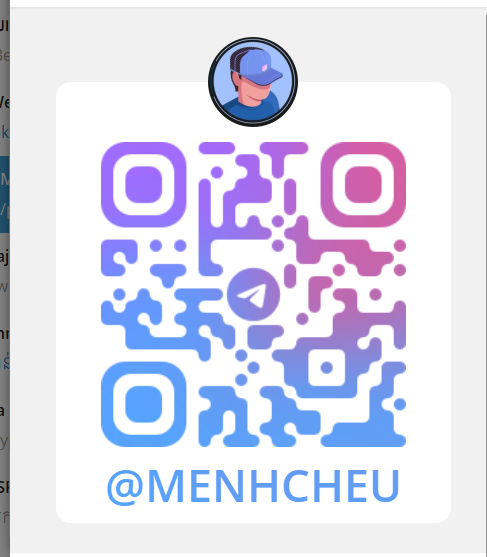
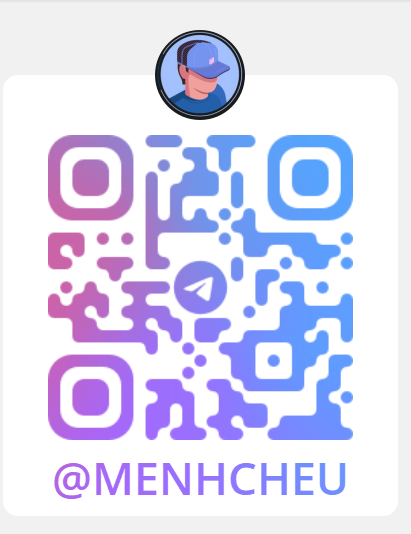
Update profile picture to profile1.jpg and adjust image dimensions

diff --git a/resources/views/portfolio/index.blade.php b/resources/views/portfolio/index.blade.php
@@ -6,7 +6,7 @@
     <div class="max-w-7xl mx-auto px-4 sm:px-6 lg:px-8 relative z-10 text-center">
         <!-- Profile Avatar Badge -->
         <div class="inline-flex items-center gap-3 px-4 py-2 rounded-full bg-white dark:bg-slate-800/80 border border-slate-200 dark:border-slate-700/80 mb-8 shadow-sm">
-            <img src="{{ asset('images/profile.jpg') }}" alt="Kongboo Tang" class="w-8 h-8 rounded-full object-cover ring-2 ring-indigo-500">
+            <img src="{{ asset('images/profile1.jpg') }}" alt="Kongboo Tang" class="w-8 h-8 rounded-full object-cover ring-2 ring-indigo-500">
             <span class="text-sm font-medium text-slate-700 dark:text-slate-200">Hi, I'm <strong class="text-indigo-600 dark:text-indigo-400 font-semibold">Kongboo Tang</strong> 👋</span>
         </div>
 
@@ -21,7 +21,9 @@
                 View My Work
             </a>
             <a href="{{ asset('TANG_KONGBOO_CV.pdf') }}" target="_blank" class="px-8 py-3 text-base font-medium rounded-full text-slate-900 bg-white border border-slate-200 hover:bg-slate-50 dark:text-white dark:bg-slate-800 dark:border-slate-700 dark:hover:bg-slate-700 transition-all flex items-center gap-2">
-                <svg class="w-5 h-5" fill="none" viewBox="0 0 24 24" stroke="currentColor"><path stroke-linecap="round" stroke-linejoin="round" stroke-width="2" d="M4 16v1a3 3 0 003 3h10a3 3 0 003-3v-1m-4-4l-4 4m0 0l-4-4m4 4V4" /></svg>
+                <svg class="w-5 h-5" fill="none" viewBox="0 0 24 24" stroke="currentColor">
+                    <path stroke-linecap="round" stroke-linejoin="round" stroke-width="2" d="M4 16v1a3 3 0 003 3h10a3 3 0 003-3v-1m-4-4l-4 4m0 0l-4-4m4 4V4" />
+                </svg>
                 Download CV
             </a>
             <a href="#contact" class="hidden md:inline-block px-8 py-3 text-base font-medium rounded-full text-slate-900 bg-white border border-slate-200 hover:bg-slate-50 dark:text-white dark:bg-slate-800 dark:border-slate-700 dark:hover:bg-slate-700 transition-all">
@@ -29,7 +31,7 @@
             </a>
         </div>
     </div>
-    
+
     <!-- Background Decoration -->
     <div class="absolute top-1/2 left-1/2 -translate-x-1/2 -translate-y-1/2 w-[800px] h-[800px] bg-indigo-500/10 dark:bg-indigo-500/5 rounded-full blur-3xl pointer-events-none"></div>
 </section>
@@ -42,14 +44,14 @@
             <div class="w-20 h-1 bg-indigo-500 mx-auto mt-4 rounded-full"></div>
             <p class="mt-4 text-slate-600 dark:text-slate-400">Get to know more about my background, expertise, and contact details.</p>
         </div>
-        
+
         <div class="max-w-5xl mx-auto bg-white dark:bg-[#0a0a0a] rounded-3xl p-8 md:p-12 shadow-sm border border-slate-200 dark:border-slate-800">
             <div class="flex flex-col md:flex-row gap-8 md:gap-12 items-center md:items-start">
                 <!-- Profile Image & Quick Bio Card -->
                 <div class="w-full md:w-1/3 flex flex-col items-center text-center">
                     <div class="relative group mb-6">
                         <div class="absolute -inset-1 bg-gradient-to-r from-indigo-500 to-cyan-400 rounded-full blur opacity-75 group-hover:opacity-100 transition duration-500"></div>
-                        <img src="{{ asset('images/profile.jpg') }}" alt="Kongboo Tang" class="relative w-40 h-40 rounded-full object-cover border-4 border-white dark:border-slate-900 shadow-xl">
+                        <img src="{{ asset('images/profile1.jpg') }}" alt="Kongboo Tang" class="relative w-48 h-48 sm:w-56 sm:h-56 rounded-full object-cover border-4 border-white dark:border-slate-900 shadow-xl">
                     </div>
                     <h3 class="text-2xl font-bold text-slate-900 dark:text-white">Kongboo Tang</h3>
                     <p class="text-indigo-600 dark:text-indigo-400 font-medium mt-1">Software Engineering Student</p>
@@ -70,7 +72,9 @@
                     <div class="grid grid-cols-1 sm:grid-cols-2 gap-4 pt-4 border-t border-slate-100 dark:border-slate-800">
                         <div class="flex items-center gap-3 p-3 rounded-xl bg-slate-50 dark:bg-slate-900/60 border border-slate-100 dark:border-slate-800">
                             <div class="w-9 h-9 rounded-lg bg-indigo-100 dark:bg-indigo-900/40 text-indigo-600 dark:text-indigo-400 flex items-center justify-center shrink-0">
-                                <svg class="w-5 h-5" fill="none" viewBox="0 0 24 24" stroke="currentColor"><path stroke-linecap="round" stroke-linejoin="round" stroke-width="2" d="M16 7a4 4 0 11-8 0 4 4 0 018 0zM12 14a7 7 0 00-7 7h14a7 7 0 00-7-7z" /></svg>
+                                <svg class="w-5 h-5" fill="none" viewBox="0 0 24 24" stroke="currentColor">
+                                    <path stroke-linecap="round" stroke-linejoin="round" stroke-width="2" d="M16 7a4 4 0 11-8 0 4 4 0 018 0zM12 14a7 7 0 00-7 7h14a7 7 0 00-7-7z" />
+                                </svg>
                             </div>
                             <div>
                                 <span class="text-xs text-slate-400 block font-medium">Full Name</span>
@@ -80,7 +84,10 @@
 
                         <div class="flex items-center gap-3 p-3 rounded-xl bg-slate-50 dark:bg-slate-900/60 border border-slate-100 dark:border-slate-800">
                             <div class="w-9 h-9 rounded-lg bg-indigo-100 dark:bg-indigo-900/40 text-indigo-600 dark:text-indigo-400 flex items-center justify-center shrink-0">
-                                <svg class="w-5 h-5" fill="none" viewBox="0 0 24 24" stroke="currentColor"><path stroke-linecap="round" stroke-linejoin="round" stroke-width="2" d="M12 14l9-5-9-5-9 5 9 5z" /><path stroke-linecap="round" stroke-linejoin="round" stroke-width="2" d="M12 14l6.16-3.422a12.083 12.083 0 01.665 6.479A11.952 11.952 0 0012 20.055a11.952 11.952 0 00-6.824-2.998 12.078 12.078 0 01.665-6.479L12 14z" /></svg>
+                                <svg class="w-5 h-5" fill="none" viewBox="0 0 24 24" stroke="currentColor">
+                                    <path stroke-linecap="round" stroke-linejoin="round" stroke-width="2" d="M12 14l9-5-9-5-9 5 9 5z" />
+                                    <path stroke-linecap="round" stroke-linejoin="round" stroke-width="2" d="M12 14l6.16-3.422a12.083 12.083 0 01.665 6.479A11.952 11.952 0 0012 20.055a11.952 11.952 0 00-6.824-2.998 12.078 12.078 0 01.665-6.479L12 14z" />
+                                </svg>
                             </div>
                             <div>
                                 <span class="text-xs text-slate-400 block font-medium">Education</span>
@@ -90,7 +97,9 @@
 
                         <div class="flex items-center gap-3 p-3 rounded-xl bg-slate-50 dark:bg-slate-900/60 border border-slate-100 dark:border-slate-800">
                             <div class="w-9 h-9 rounded-lg bg-indigo-100 dark:bg-indigo-900/40 text-indigo-600 dark:text-indigo-400 flex items-center justify-center shrink-0">
-                                <svg class="w-5 h-5" fill="none" viewBox="0 0 24 24" stroke="currentColor"><path stroke-linecap="round" stroke-linejoin="round" stroke-width="2" d="M3 8l7.89 5.26a2 2 0 002.22 0L21 8M5 19h14a2 2 0 002-2V7a2 2 0 00-2-2H5a2 2 0 00-2 2v10a2 2 0 002 2z" /></svg>
+                                <svg class="w-5 h-5" fill="none" viewBox="0 0 24 24" stroke="currentColor">
+                                    <path stroke-linecap="round" stroke-linejoin="round" stroke-width="2" d="M3 8l7.89 5.26a2 2 0 002.22 0L21 8M5 19h14a2 2 0 002-2V7a2 2 0 00-2-2H5a2 2 0 00-2 2v10a2 2 0 002 2z" />
+                                </svg>
                             </div>
                             <div>
                                 <span class="text-xs text-slate-400 block font-medium">Email</span>
@@ -100,7 +109,9 @@
 
                         <div class="flex items-center gap-3 p-3 rounded-xl bg-slate-50 dark:bg-slate-900/60 border border-slate-100 dark:border-slate-800">
                             <div class="w-9 h-9 rounded-lg bg-indigo-100 dark:bg-indigo-900/40 text-indigo-600 dark:text-indigo-400 flex items-center justify-center shrink-0">
-                                <svg class="w-5 h-5" fill="currentColor" viewBox="0 0 24 24"><path d="M11.944 0A12 12 0 0 0 0 12a12 12 0 0 0 12 12 12 12 0 0 0 12-12A12 12 0 0 0 12 0a12 12 0 0 0-.056 0zm4.962 7.224c.1-.002.321.023.465.14a.506.506 0 0 1 .171.325c.016.093.036.306.02.472-.18 1.898-.962 6.502-1.36 8.627-.168.9-.499 1.201-.82 1.23-.696.065-1.225-.46-1.9-.902-1.056-.693-1.653-1.124-2.678-1.8-1.185-.78-.417-1.21.258-1.91.177-.184 3.247-2.977 3.307-3.23.007-.032.014-.15-.056-.212s-.174-.041-.249-.024c-.106.024-1.793 1.14-5.061 3.345-.48.33-.913.49-1.302.48-.428-.008-1.252-.241-1.865-.44-.752-.245-1.349-.374-1.297-.789.027-.216.325-.437.893-.663 3.498-1.524 5.83-2.529 6.998-3.014 3.332-1.386 4.025-1.627 4.476-1.635z"/></svg>
+                                <svg class="w-5 h-5" fill="currentColor" viewBox="0 0 24 24">
+                                    <path d="M11.944 0A12 12 0 0 0 0 12a12 12 0 0 0 12 12 12 12 0 0 0 12-12A12 12 0 0 0 12 0a12 12 0 0 0-.056 0zm4.962 7.224c.1-.002.321.023.465.14a.506.506 0 0 1 .171.325c.016.093.036.306.02.472-.18 1.898-.962 6.502-1.36 8.627-.168.9-.499 1.201-.82 1.23-.696.065-1.225-.46-1.9-.902-1.056-.693-1.653-1.124-2.678-1.8-1.185-.78-.417-1.21.258-1.91.177-.184 3.247-2.977 3.307-3.23.007-.032.014-.15-.056-.212s-.174-.041-.249-.024c-.106.024-1.793 1.14-5.061 3.345-.48.33-.913.49-1.302.48-.428-.008-1.252-.241-1.865-.44-.752-.245-1.349-.374-1.297-.789.027-.216.325-.437.893-.663 3.498-1.524 5.83-2.529 6.998-3.014 3.332-1.386 4.025-1.627 4.476-1.635z" />
+                                </svg>
                             </div>
                             <div>
                                 <span class="text-xs text-slate-400 block font-medium">Telegram</span>
@@ -120,13 +131,15 @@
             <h2 class="text-3xl font-bold tracking-tight text-slate-900 dark:text-white sm:text-4xl">Experience & Education</h2>
             <div class="w-20 h-1 bg-indigo-500 mx-auto mt-4 rounded-full"></div>
         </div>
-        
+
         <div class="grid grid-cols-1 md:grid-cols-2 gap-12">
             <!-- Experience -->
             <div>
                 <h3 class="text-2xl font-bold text-slate-900 dark:text-white mb-6 flex items-center gap-3">
                     <div class="w-10 h-10 rounded-lg bg-indigo-100 dark:bg-indigo-900/30 flex items-center justify-center text-indigo-600 dark:text-indigo-400">
-                        <svg class="w-6 h-6" fill="none" viewBox="0 0 24 24" stroke="currentColor"><path stroke-linecap="round" stroke-linejoin="round" stroke-width="2" d="M21 13.255A23.931 23.931 0 0112 15c-3.183 0-6.22-.62-9-1.745M16 6V4a2 2 0 00-2-2h-4a2 2 0 00-2 2v2m4 6h.01M5 20h14a2 2 0 002-2V8a2 2 0 00-2-2H5a2 2 0 00-2 2v10a2 2 0 002 2z" /></svg>
+                        <svg class="w-6 h-6" fill="none" viewBox="0 0 24 24" stroke="currentColor">
+                            <path stroke-linecap="round" stroke-linejoin="round" stroke-width="2" d="M21 13.255A23.931 23.931 0 0112 15c-3.183 0-6.22-.62-9-1.745M16 6V4a2 2 0 00-2-2h-4a2 2 0 00-2 2v2m4 6h.01M5 20h14a2 2 0 002-2V8a2 2 0 00-2-2H5a2 2 0 00-2 2v10a2 2 0 002 2z" />
+                        </svg>
                     </div>
                     Experience
                 </h3>
@@ -150,7 +163,11 @@
             <div>
                 <h3 class="text-2xl font-bold text-slate-900 dark:text-white mb-6 flex items-center gap-3">
                     <div class="w-10 h-10 rounded-lg bg-indigo-100 dark:bg-indigo-900/30 flex items-center justify-center text-indigo-600 dark:text-indigo-400">
-                        <svg class="w-6 h-6" fill="none" viewBox="0 0 24 24" stroke="currentColor"><path stroke-linecap="round" stroke-linejoin="round" stroke-width="2" d="M12 14l9-5-9-5-9 5 9 5z" /><path stroke-linecap="round" stroke-linejoin="round" stroke-width="2" d="M12 14l6.16-3.422a12.083 12.083 0 01.665 6.479A11.952 11.952 0 0012 20.055a11.952 11.952 0 00-6.824-2.998 12.078 12.078 0 01.665-6.479L12 14z" /><path stroke-linecap="round" stroke-linejoin="round" stroke-width="2" d="M12 14l9-5-9-5-9 5 9 5zm0 0l6.16-3.422a12.083 12.083 0 01.665 6.479A11.952 11.952 0 0012 20.055a11.952 11.952 0 00-6.824-2.998 12.078 12.078 0 01.665-6.479L12 14zm-4 6v-7.5l4-2.222" /></svg>
+                        <svg class="w-6 h-6" fill="none" viewBox="0 0 24 24" stroke="currentColor">
+                            <path stroke-linecap="round" stroke-linejoin="round" stroke-width="2" d="M12 14l9-5-9-5-9 5 9 5z" />
+                            <path stroke-linecap="round" stroke-linejoin="round" stroke-width="2" d="M12 14l6.16-3.422a12.083 12.083 0 01.665 6.479A11.952 11.952 0 0012 20.055a11.952 11.952 0 00-6.824-2.998 12.078 12.078 0 01.665-6.479L12 14z" />
+                            <path stroke-linecap="round" stroke-linejoin="round" stroke-width="2" d="M12 14l9-5-9-5-9 5 9 5zm0 0l6.16-3.422a12.083 12.083 0 01.665 6.479A11.952 11.952 0 0012 20.055a11.952 11.952 0 00-6.824-2.998 12.078 12.078 0 01.665-6.479L12 14zm-4 6v-7.5l4-2.222" />
+                        </svg>
                     </div>
                     Education
                 </h3>
@@ -177,17 +194,17 @@
             <h2 class="text-3xl font-bold tracking-tight text-slate-900 dark:text-white sm:text-4xl">Technical Expertise</h2>
             <div class="w-20 h-1 bg-indigo-500 mx-auto mt-4 rounded-full"></div>
         </div>
-        
-            @foreach($skills as $skill)
-            <div class="p-6 bg-white dark:bg-[#0a0a0a] rounded-2xl shadow-sm border border-slate-200 dark:border-slate-800 hover:border-{{ $skill->color_theme }}-500 dark:hover:border-{{ $skill->color_theme }}-500 transition-colors">
-                <div class="w-12 h-12 bg-{{ $skill->color_theme }}-100 dark:bg-{{ $skill->color_theme }}-900/30 rounded-lg flex items-center justify-center mb-4 text-{{ $skill->color_theme }}-600 dark:text-{{ $skill->color_theme }}-400">
-                    {!! $skill->icon_svg !!}
-                </div>
-                <h3 class="text-lg font-semibold text-slate-900 dark:text-white mb-2">{{ $skill->title }}</h3>
-                <p class="text-slate-600 dark:text-slate-400 text-sm">{{ $skill->description }}</p>
+
+        @foreach($skills as $skill)
+        <div class="p-6 bg-white dark:bg-[#0a0a0a] rounded-2xl shadow-sm border border-slate-200 dark:border-slate-800 hover:border-{{ $skill->color_theme }}-500 dark:hover:border-{{ $skill->color_theme }}-500 transition-colors">
+            <div class="w-12 h-12 bg-{{ $skill->color_theme }}-100 dark:bg-{{ $skill->color_theme }}-900/30 rounded-lg flex items-center justify-center mb-4 text-{{ $skill->color_theme }}-600 dark:text-{{ $skill->color_theme }}-400">
+                {!! $skill->icon_svg !!}
             </div>
-            @endforeach
+            <h3 class="text-lg font-semibold text-slate-900 dark:text-white mb-2">{{ $skill->title }}</h3>
+            <p class="text-slate-600 dark:text-slate-400 text-sm">{{ $skill->description }}</p>
         </div>
+        @endforeach
+    </div>
     </div>
 </section>
 
@@ -199,7 +216,7 @@
             <div class="w-20 h-1 bg-indigo-500 mx-auto mt-4 rounded-full"></div>
             <p class="mt-4 text-slate-600 dark:text-slate-400">A selection of my recent work showcasing full-stack development and system design.</p>
         </div>
-        
+
         <div class="grid grid-cols-1 md:grid-cols-2 lg:grid-cols-3 gap-8">
             @foreach($projects as $project)
             <!-- Project Card -->
@@ -218,13 +235,17 @@
                     <div class="flex gap-4 mt-auto pt-4 border-t border-slate-100 dark:border-slate-800">
                         @if($project->github_link)
                         <a href="{{ $project->github_link }}" target="_blank" class="flex items-center gap-1.5 text-sm font-medium text-slate-600 dark:text-slate-400 hover:text-indigo-600 dark:hover:text-indigo-400 transition-colors">
-                            <svg class="w-4 h-4" fill="currentColor" viewBox="0 0 24 24"><path fill-rule="evenodd" d="M12 2C6.477 2 2 6.484 2 12.017c0 4.425 2.865 8.18 6.839 9.504.5.092.682-.217.682-.483 0-.237-.008-.868-.013-1.703-2.782.605-3.369-1.343-3.369-1.343-.454-1.158-1.11-1.466-1.11-1.466-.908-.62.069-.608.069-.608 1.003.07 1.531 1.032 1.531 1.032.892 1.53 2.341 1.088 2.91.832.092-.647.35-1.088.636-1.338-2.22-.253-4.555-1.113-4.555-4.951 0-1.093.39-1.988 1.029-2.688-.103-.253-.446-1.272.098-2.65 0 0 .84-.27 2.75 1.026A9.564 9.564 0 0112 6.844c.85.004 1.705.115 2.504.337 1.909-1.296 2.747-1.027 2.747-1.027.546 1.379.202 2.398.1 2.651.64.7 1.028 1.595 1.028 2.688 0 3.848-2.339 4.695-4.566 4.943.359.309.678.92.678 1.855 0 1.338-.012 2.419-.012 2.747 0 .268.18.58.688.482A10.019 10.019 0 0022 12.017C22 6.484 17.522 2 12 2z" clip-rule="evenodd" /></svg>
+                            <svg class="w-4 h-4" fill="currentColor" viewBox="0 0 24 24">
+                                <path fill-rule="evenodd" d="M12 2C6.477 2 2 6.484 2 12.017c0 4.425 2.865 8.18 6.839 9.504.5.092.682-.217.682-.483 0-.237-.008-.868-.013-1.703-2.782.605-3.369-1.343-3.369-1.343-.454-1.158-1.11-1.466-1.11-1.466-.908-.62.069-.608.069-.608 1.003.07 1.531 1.032 1.531 1.032.892 1.53 2.341 1.088 2.91.832.092-.647.35-1.088.636-1.338-2.22-.253-4.555-1.113-4.555-4.951 0-1.093.39-1.988 1.029-2.688-.103-.253-.446-1.272.098-2.65 0 0 .84-.27 2.75 1.026A9.564 9.564 0 0112 6.844c.85.004 1.705.115 2.504.337 1.909-1.296 2.747-1.027 2.747-1.027.546 1.379.202 2.398.1 2.651.64.7 1.028 1.595 1.028 2.688 0 3.848-2.339 4.695-4.566 4.943.359.309.678.92.678 1.855 0 1.338-.012 2.419-.012 2.747 0 .268.18.58.688.482A10.019 10.019 0 0022 12.017C22 6.484 17.522 2 12 2z" clip-rule="evenodd" />
+                            </svg>
                             Code
                         </a>
                         @endif
                         @if($project->live_link && $project->live_link !== '#')
                         <a href="{{ $project->live_link }}" target="_blank" class="flex items-center gap-1.5 text-sm font-medium text-slate-600 dark:text-slate-400 hover:text-indigo-600 dark:hover:text-indigo-400 transition-colors">
-                            <svg class="w-4 h-4" fill="none" viewBox="0 0 24 24" stroke="currentColor"><path stroke-linecap="round" stroke-linejoin="round" stroke-width="2" d="M10 6H6a2 2 0 00-2 2v10a2 2 0 002 2h10a2 2 0 002-2v-4M14 4h6m0 0v6m0-6L10 14" /></svg>
+                            <svg class="w-4 h-4" fill="none" viewBox="0 0 24 24" stroke="currentColor">
+                                <path stroke-linecap="round" stroke-linejoin="round" stroke-width="2" d="M10 6H6a2 2 0 00-2 2v10a2 2 0 002 2h10a2 2 0 002-2v-4M14 4h6m0 0v6m0-6L10 14" />
+                            </svg>
                             Live Demo
                         </a>
                         @endif
@@ -244,7 +265,7 @@
             <div class="w-20 h-1 bg-indigo-500 mx-auto mt-4 rounded-full"></div>
             <p class="mt-4 text-slate-600 dark:text-slate-400">Have a project in mind or just want to say hi? I'd love to hear from you.</p>
         </div>
-        
+
         <div class="grid grid-cols-1 lg:grid-cols-5 gap-8">
             <!-- Direct Contact & QR -->
             <div class="lg:col-span-2 bg-white dark:bg-[#0a0a0a] rounded-2xl shadow-sm border border-slate-200 dark:border-slate-800 p-8 flex flex-col items-center justify-center text-center">
@@ -254,7 +275,9 @@
                     <img src="{{ asset('images/telegram-qr.png') }}" alt="Telegram QR Code" class="w-48 h-48 object-contain rounded-lg">
                 </div>
                 <a href="https://t.me/+85561913865" target="_blank" class="flex items-center justify-center gap-2 text-indigo-600 dark:text-indigo-400 font-medium hover:text-indigo-700 dark:hover:text-indigo-300 transition-colors">
-                    <svg class="h-5 w-5" fill="currentColor" viewBox="0 0 24 24" aria-hidden="true"><path d="M11.944 0A12 12 0 0 0 0 12a12 12 0 0 0 12 12 12 12 0 0 0 12-12A12 12 0 0 0 12 0a12 12 0 0 0-.056 0zm4.962 7.224c.1-.002.321.023.465.14a.506.506 0 0 1 .171.325c.016.093.036.306.02.472-.18 1.898-.962 6.502-1.36 8.627-.168.9-.499 1.201-.82 1.23-.696.065-1.225-.46-1.9-.902-1.056-.693-1.653-1.124-2.678-1.8-1.185-.78-.417-1.21.258-1.91.177-.184 3.247-2.977 3.307-3.23.007-.032.014-.15-.056-.212s-.174-.041-.249-.024c-.106.024-1.793 1.14-5.061 3.345-.48.33-.913.49-1.302.48-.428-.008-1.252-.241-1.865-.44-.752-.245-1.349-.374-1.297-.789.027-.216.325-.437.893-.663 3.498-1.524 5.83-2.529 6.998-3.014 3.332-1.386 4.025-1.627 4.476-1.635z"/></svg>
+                    <svg class="h-5 w-5" fill="currentColor" viewBox="0 0 24 24" aria-hidden="true">
+                        <path d="M11.944 0A12 12 0 0 0 0 12a12 12 0 0 0 12 12 12 12 0 0 0 12-12A12 12 0 0 0 12 0a12 12 0 0 0-.056 0zm4.962 7.224c.1-.002.321.023.465.14a.506.506 0 0 1 .171.325c.016.093.036.306.02.472-.18 1.898-.962 6.502-1.36 8.627-.168.9-.499 1.201-.82 1.23-.696.065-1.225-.46-1.9-.902-1.056-.693-1.653-1.124-2.678-1.8-1.185-.78-.417-1.21.258-1.91.177-.184 3.247-2.977 3.307-3.23.007-.032.014-.15-.056-.212s-.174-.041-.249-.024c-.106.024-1.793 1.14-5.061 3.345-.48.33-.913.49-1.302.48-.428-.008-1.252-.241-1.865-.44-.752-.245-1.349-.374-1.297-.789.027-.216.325-.437.893-.663 3.498-1.524 5.83-2.529 6.998-3.014 3.332-1.386 4.025-1.627 4.476-1.635z" />
+                    </svg>
                     @MENHCHEU
                 </a>
             </div>
@@ -305,7 +328,9 @@
                     entry.target.classList.remove('opacity-0', 'translate-y-8');
                 }
             });
-        }, { threshold: 0.1 });
+        }, {
+            threshold: 0.1
+        });
 
         document.querySelectorAll('section').forEach(section => {
             section.classList.add('transition-all', 'duration-700', 'opacity-0', 'translate-y-8');
